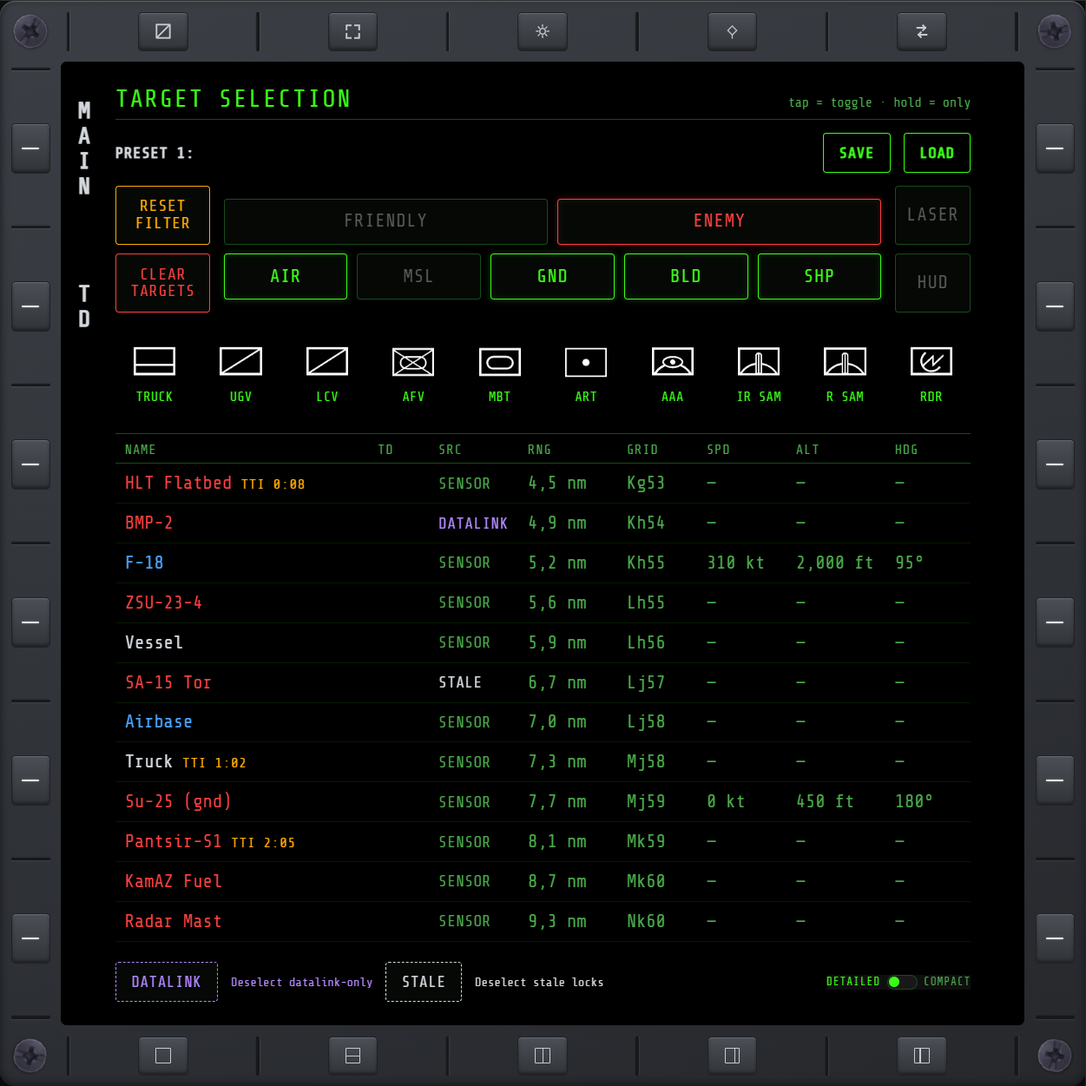
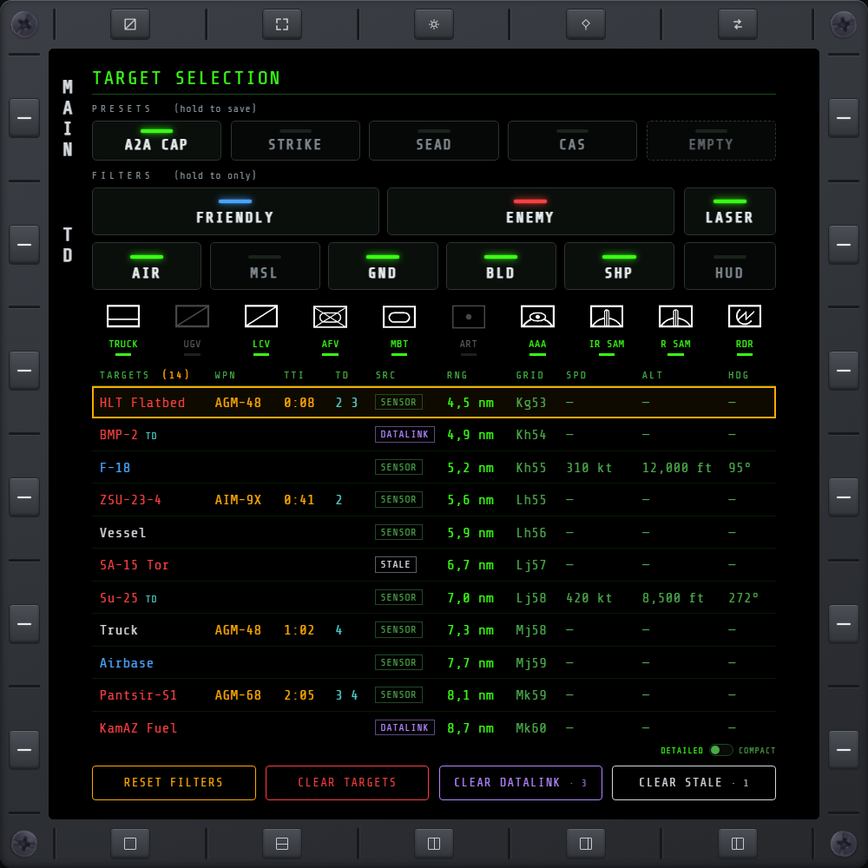
TGT rework: docs, manual and screenshots
Adds docs/tgt-rework.md (layout, decisions, verification, in-game checklist),
updates the TGT manual, tgt-presets, hud-tti-estimate and the datalink/stale
design docs for the renamed buttons, and replaces the TGT screenshots in
man/images with the new layout.

diff --git a/docs/tgt-presets.md b/docs/tgt-presets.md
@@ -16,14 +16,17 @@ name/data start empty and can be cleared back to empty.
 This is the same feature as [HUD presets](hud-presets.md), applied to TGT's filter set instead of
 HUD's — same slot model, same UI pattern, same wire shape, swapping HUD's filter fields for TGT's.
 
-- A bar on [TGT](../man/tgt.md#presets), between the header separator and the filter group (same
-  placement as HUD's own), reads **PRESET N: name** (whichever slot is current, in `--no-label`
-  white) plus solid `--no-green` **SAVE**/**LOAD** buttons — styled identically to HUD's own preset
-  bar (`hud.css`), not TGT's dashed DATALINK/STALE mod-only accent.
-- **SAVE** opens a name prompt; submitting captures the page's current live filters into the
-  current slot under that name.
-- **LOAD** opens a list of all 5; picking one applies it and makes it current, a pencil renames a
-  slot in place, and **×** clears one back to empty.
+- Five cards on [TGT](../man/tgt.md#presets), under a **PRESETS (hold to save)** heading between the
+  header separator and the filters — see [tgt-rework.md](tgt-rework.md). A card's position is its
+  slot; the lit one is current; an unsaved slot reads **EMPTY** with a dashed border.
+- **Tap** a card recalls it (`tgt-preset.load`) and makes it current.
+- **Hold** a card opens the SAVE PRESET dialog (keypad-style, see [tgt-rework.md](tgt-rework.md)) with
+  an amber name entry prefilled with the slot's name. **SAVE** captures the page's current live
+  filters into that slot under that name and makes it current (`tgt-preset.save {wname, index}`);
+  **CLEAR** empties the slot (`tgt-preset.delete {index}`); **CANCEL** closes. A completed hold
+  never also recalls.
+- TGT no longer opens a LOAD picker; a slot is renamed by holding its card and saving under a new
+  name, and emptied with CLEAR. `tgt-preset.rename` remains in the command set but has no TGT UI.
 - 5 new keybinds ([KEY](../man/keybinds.md#tgt-presets) page, **TGT PRESETS** section) recall a
   preset directly — real binds (both keyboard and joystick/HOTAS), same as HUD Presets.
 
@@ -46,9 +49,10 @@ scalar bools for laser/HUD mode.
 - **Server captures its own live state — no client-supplied blob.** Same as HUD presets:
   `tgt-preset.save` carries only a name; the server snapshots `TargetListSelector`'s live toggle
   state itself.
-- **SAVE always targets the current slot, never a client-picked index.** "Current" is plain
-  in-memory state (`TgtPresetStore`'s own `_current`, default 1) — a UI selection, not saved data,
-  so it isn't persisted and resets to 1 each session.
+- **`tgt-preset.save` takes an optional slot index; without one it targets the current slot.** A
+  card hold names its slot, and saving there also makes it current. "Current" is plain in-memory
+  state (`TgtPresetStore`'s own `_current`, default 1) — a UI selection, not saved data, so it isn't
+  persisted and resets to 1 each session.
 - **The raw filter state never leaves the server.** The `tgt` telemetry block's new `preset` field
   and the dedicated `/tgt-presets` endpoint both carry only `{index, name, hasData}` per slot.
 - **A distinct `tgt-preset.*` command namespace, not a reused `preset.*`.** `CommandDispatcher`
@@ -64,12 +68,11 @@ scalar bools for laser/HUD mode.
 - **Re-pressing an already-current, empty slot still "selects" it**, and **loading a preset skips
   a `.Set()` call when the toggle already matches** (mirrors `CommandDispatcher.TgtSet`'s own
   no-op guard) — both identical reasoning to `HudPresetStore`.
-- **Reused `LayoutModal`**, exactly as HUD presets did — `tgt.html` just also loads
-  `layout-modal.css`/`.js`.
-- **The SAVE/LOAD/`fetchPresetItems` wiring itself moved into a shared `preset-bar.js`**
-  (`src/web/shell/shared/`) rather than being copy-pasted into `tgt.js` a second time — `hud.js`'s
-  own inline version became the first user of the extraction, taking a `getPreset`/`setPreset` pair
-  so each page keeps owning its own state shape (`data.preset` vs `state.preset`).
+- **The save dialog is TGT's own**, in the keypad design of MAP's TGP slew keypad — not the shared
+  `LayoutModal` HUD presets use (see [tgt-rework.md](tgt-rework.md)).
+- **The SAVE/LOAD/`fetchPresetItems` wiring lives in a shared `preset-bar.js`**
+  (`src/web/shell/shared/`) for HUD's bar, taking a `getPreset`/`setPreset` pair so the page keeps
+  owning its own state shape. TGT's cards are `tgt.js`'s own, so `preset-bar.js` serves HUD alone.
 - **Fixed-slot/summary-JSON/persistence plumbing shared with `HudPresetStore` via a small
   `PresetSlots` helper** (`src/plugin/Stores/PresetSlots.cs`) — the two stores' game-specific
   capture/apply logic stayed separate; only the identical bookkeeping around it (empty-slot
@@ -100,14 +103,15 @@ scalar bools for laser/HUD mode.
 | [`src/plugin/Stores/PresetSlots.cs`](../src/plugin/Stores/PresetSlots.cs), [`tools/tests/PresetSlotsTests.cs`](../tools/tests/PresetSlotsTests.cs) | Shared BCL-only plumbing (slot creation, summary JSON, name validation, rename/delete, disk persistence) used by both `TgtPresetStore` and `HudPresetStore` — linked directly into `NOXMFD.Tests.csproj` via the same `LogWarning` seam `RouteStore.cs` uses. |
 | [`src/plugin/CommandDispatcher.cs`](../src/plugin/CommandDispatcher.cs) | `tgt-preset.save` / `.rename` / `.delete` / `.load` — `wname` for a name, `index` for a slot number 1-5. |
 | [`src/plugin/Telemetry/TelemetrySnapshot.cs`](../src/plugin/Telemetry/TelemetrySnapshot.cs), [`TelemetryReader.cs`](../src/plugin/Telemetry/TelemetryReader.cs), [`TelemetryJson.cs`](../src/plugin/Telemetry/TelemetryJson.cs) | `TgtPresetIndex`/`TgtPresetName` captured per frame; `TgtBlock` gained a `preset:{index,name}` field. |
-| [`src/plugin/Http/ConfigEndpoint.cs`](../src/plugin/Http/ConfigEndpoint.cs), [`TelemetryHttpRouter.cs`](../src/plugin/Http/TelemetryHttpRouter.cs) | `GET /tgt-presets` serves the full 5-slot summary for the LOAD picker. |
+| [`src/plugin/Http/ConfigEndpoint.cs`](../src/plugin/Http/ConfigEndpoint.cs), [`TelemetryHttpRouter.cs`](../src/plugin/Http/TelemetryHttpRouter.cs) | `GET /tgt-presets` serves the full 5-slot summary for HUD's LOAD picker and TGT's preset cards. |
 | [`src/plugin/Input/Keybinds.cs`](../src/plugin/Input/Keybinds.cs) | 5 `DefFree` binds (**TGT Preset 1**-**5**), section `TGT Preset Keybinds` → displayed as **TGT PRESETS**. |
 | [`src/plugin/Plugin.cs`](../src/plugin/Plugin.cs) | `TgtPresetStore.Load`/`.SelfCheck` wired into startup, next to `HudPresetStore`'s own. |
-| [`src/web/pages/tgt/tgt.html`](../src/web/pages/tgt/tgt.html), [`tgt.js`](../src/web/pages/tgt/tgt.js), [`tgt.css`](../src/web/pages/tgt/tgt.css) | The bar markup/styling and the page-specific glue (`getPreset`/`setPreset` reading/writing `state.preset`). PAD-cursor `CURSORABLE` extended to include the two new buttons. |
-| [`src/web/shell/shared/preset-bar.js`](../src/web/shell/shared/preset-bar.js) | The actual SAVE/LOAD/`LayoutModal`/`fetchPresetItems` wiring — shared with [HUD presets](hud-presets.md), extracted here since TGT presets made it a second identical copy rather than a one-off. |
+| [`src/web/pages/tgt/tgt-presets.js`](../src/web/pages/tgt/tgt-presets.js), [`tgt-presets.test.js`](../src/web/pages/tgt/tgt-presets.test.js) | The five preset cards, the SAVE PRESET dialog and the `GET /tgt-presets` mirror, with the DOM, `fetch` and `send` injected; the test drives recall, SAVE / CLEAR / CANCEL and the refetch rule. |
+| [`src/web/pages/tgt/tgt.html`](../src/web/pages/tgt/tgt.html), [`tgt.js`](../src/web/pages/tgt/tgt.js), [`tgt.css`](../src/web/pages/tgt/tgt.css) | The card and dialog markup/styling, and the tap/hold arbitration that routes to `tgt-presets.js`. The PAD cursor taps a card to recall and holds it to save. |
+| [`src/web/shell/shared/preset-bar.js`](../src/web/shell/shared/preset-bar.js) | The SAVE/LOAD/`LayoutModal`/`fetchPresetItems` wiring for [HUD presets](hud-presets.md). |
 | [`tools/serve_web.py`](../tools/serve_web.py) | Stateful mock (`TGT_PRESETS`/`TGT_PRESET_STATE`), same shape as `PRESETS`/`PRESET_STATE` — the name/list/rename/delete/current-slot machinery is fully exercised; the preset label itself stays static in the harness (see below). |
 | [`tools/preview-mock.js`](../tools/preview-mock.js) | Static `preset: {index:1, name:''}` added to the `tgt` mock block, for a sensible standalone render. |
-| [`man/tgt.md`](../man/tgt.md), [`man/keybinds.md`](../man/keybinds.md) | Document the preset bar and the new **TGT PRESETS** keybind section. |
+| [`man/tgt.md`](../man/tgt.md), [`man/keybinds.md`](../man/keybinds.md) | Document the preset cards and the new **TGT PRESETS** keybind section. |
 
 ## Verification performed
 

diff --git a/man/tgt.md b/man/tgt.md
@@ -7,26 +7,31 @@ targeted, and see what you currently have selected.
 
 ## Filters
 
-Rows of toggles for faction (friendly/enemy), category, and vehicle type, plus LASER and HUD mode
-buttons:
+Under a **FILTERS** heading, rows of toggles for faction (friendly/enemy), category, and vehicle
+type, plus LASER and HUD mode buttons. Each lights a small lamp above its label while it is on —
+green, or blue for FRIENDLY and red for ENEMY:
 
 - **Tap** a filter to turn it on or off.
 - **Hold** a filter to isolate it — turns everything else in its row off, leaving just that one on.
-- **RESET FILTER** turns every filter back on.
+- **RESET FILTERS** (bottom row) turns every filter back on.
 
 Units the filters leave out are drawn dimmed on the [MAP](map.md), same as on the in-game map.
 
 ## Target list
 
-The **NAME** column header reads **TARGETS (N)** — the running total in amber — handy for matching
+The first column header reads **TARGETS (N)** — the running total in amber — handy for matching
 ordnance count to target count without leaving the map to check the cockpit MFD.
 
 Every target you currently have selected, one row per target:
 
-- **NAME** — the unit's name, with a **TTI** (time-to-impact) reading beside it whenever one of
-  your own missiles or guided bombs is currently in flight and tracking that lock — the same
-  reading the in-game HUD's own [time-to-impact readout](rdr.md#in-game-hud-cue) shows for whichever
-  target is focused, just available here for every locked target at once, not only the focused one.
+- **TARGETS** — the unit's name.
+- **WPN** — the weapon of yours that is currently in flight and tracking that lock. Blank when
+  nothing is.
+- **TTI** — that weapon's time to impact as `m:ss`, the same reading the in-game HUD's own
+  [time-to-impact readout](rdr.md#in-game-hud-cue) shows for whichever target is focused, just
+  available here for every locked target at once, not only the focused one. Blank when nothing is
+  tracking the lock. With several weapons on one target, WPN and TTI both describe the one closest
+  to impact.
 - **TD** — while you're leading a [squad](sqd.md), which member number(s) you've designated this
   target to on the [Target Designator page](td.md) (blank if none). Only you see this column — it's
   your own in-progress/sent designation work, not visible to anyone else, and it doesn't appear at
@@ -51,12 +56,12 @@ still read it out), but Select now acts on whatever the cursor is pointing at in
 
 ### Sorting
 
-**Tap the NAME, SRC or RNG column header** to sort the list by that column; tap it again to
+**Tap the TARGETS, SRC or RNG column header** to sort the list by that column; tap it again to
 reverse the order. A green **▲** / **▼** beside the header shows which column is sorting and in
 which direction. **Long-press** any of the three to go back to the default order — the order the
-game itself holds your locks in. GRID and the TD/flight-data columns don't sort.
+game itself holds your locks in. WPN, TTI, GRID and the TD/flight-data columns don't sort.
 
-- NAME sorts alphabetically, SRC in the order DATALINK, SENSOR, STALE.
+- TARGETS sorts alphabetically, SRC in the order DATALINK, SENSOR, STALE.
 - RNG re-sorts live as ranges change, with any target whose range isn't known always last.
 - Targets that tie keep their default order.
 
@@ -66,7 +71,7 @@ top to bottom.
 
 ## Flight data columns
 
-A DETAILED/COMPACT toggle, bottom right of the target list footer, appends three more columns
+A DETAILED/COMPACT toggle, bottom right under the target list, appends three more columns
 after GRID:
 
 - **SPD** — the target's current speed.
@@ -75,7 +80,7 @@ after GRID:
 
 Same data the [MAP](map.md) page's own hover tooltip already shows for a unit. A target shows
 **—** in all three when that data isn't available — a stale lock, or a target that isn't an
-aircraft or missile. COMPACT (the NAME/TD/SRC/RNG/GRID columns only) is the default; the
+aircraft or missile. COMPACT (the TARGETS/WPN/TTI/TD/SRC/RNG/GRID columns only) is the default; the
 setting isn't remembered across a reload.
 
 ![TGT page in DETAILED mode](images/TGT_DETAILED.png)
@@ -97,26 +102,35 @@ cockpit view:
   exactly this target, even with others also locked — instead of the stock Weapon Release trigger's
   own behavior of firing one round at *every* locked target in sequence.
 
-## Bulk-clearing by source
+## Action buttons
 
-Two buttons below the list clear targets by *why* they're selected, without touching the rest:
+Four buttons are docked in one row at the bottom of the page, outside the scrolling list, so they
+stay reachable however long the list is:
 
-- **DATALINK** — deselects every datalink-only lock.
-- **STALE** — deselects every stale lock.
+- **RESET FILTERS** (amber) — turns every filter back on.
+- **CLEAR TARGETS** (red) — deselects everything.
+- **CLEAR DATALINK** (purple) — deselects every datalink-only lock. Shows how many that is.
+- **CLEAR STALE** (white) — deselects every stale lock. Shows how many that is.
+
+The last two clear targets by *why* they're selected, without touching the rest.
 
 ## Presets
 
-Up to 5 named presets of your own filters, saved server-side so any connected browser can save or
-load one. A bar between the header and the filter group reads **PRESET N: name** — whichever of
-the 5 is current — followed by **SAVE** and **LOAD**.
+Five preset slots for your own filters, saved server-side so any connected browser can save or
+recall one. Under a **PRESETS (hold to save)** heading, five cards sit in a row, one per slot; a
+card's position is its slot. The lit card is the current preset; a slot nobody has saved into reads
+**EMPTY** with a dashed border.
 
-- **SAVE** — opens a name prompt; submitting it captures the page's current filters (faction,
-  category, vehicle type, plus LASER and HUD mode) into the current preset under that name.
-- **LOAD** — opens a list of all 5 presets. Clicking one applies its saved filters and makes it
-  the current preset; a pencil icon renames it in place, and a **×** clears it back to empty
-  (name and data both) — the slot itself stays, only its contents are gone.
-- The 5 numbered keybinds on [KEY](keybinds.md#tgt-presets) recall a preset directly without
-  opening LOAD, and also become the current preset.
+- **Tap** a card to recall it — it applies that preset's saved filters (faction, category, vehicle
+  type, plus LASER and HUD mode) and becomes the current preset. Tapping an empty slot just makes it
+  current.
+- **Hold** a card to open its **SAVE PRESET** dialog, styled like the MAP page's TGP slew keypad: an
+  amber name entry (prefilled with the slot's existing name) over three buttons. **CANCEL** (white)
+  closes it; **CLEAR** (red) empties the slot, name and filters both, and is greyed out on a slot
+  that is already empty; **SAVE** (green) saves your current filters into that slot under that name
+  and makes it current. Enter saves and Escape cancels. Holding never also recalls.
+- The 5 numbered keybinds on [KEY](keybinds.md#tgt-presets) recall a preset directly, and also
+  become the current preset.
 
 ## Keybinds and PAD cursor
 

diff --git a/docs/tgt-rework.md b/docs/tgt-rework.md
@@ -1,0 +1,94 @@
+# TGT rework — lit-panel layout, preset cards, WPN/TTI columns, action dock
+
+**Status:** built on `feature/tgt-rework`; verified in the `serve_web` harness, not yet in game.
+The layout follows the approved "TGT A · Lit Panel" design (the AVN page alternatives study).
+
+## Layout, top to bottom
+
+1. The existing TARGET SELECTION header and its tap/hold hint.
+2. **PRESETS (hold to save)** — five cards.
+3. **FILTERS** — faction beside LASER, categories beside HUD, vehicle types beneath.
+4. The scrolling target table.
+5. The DETAILED/COMPACT toggle, right-aligned under the table.
+6. The action dock: **RESET FILTERS**, **CLEAR TARGETS**, **CLEAR DATALINK**, **CLEAR STALE**.
+
+Shell and bezel styling stay with the shell; the page owns everything between the header and the
+dock. The dock and toggle sit outside the table's scroller, so they stay visible however long the
+list is. The separators above the table and above the dock are gone; row dividers stay.
+
+## Controls
+
+- **Lit-panel pushbuttons.** Preset cards, filter cells and LASER/HUD share one look: a small lamp
+  above the label, unlit when off, glowing (`0 0 8px` + `0 0 2px`) in the control's accent when on.
+  Green by default, blue for FRIENDLY, red for ENEMY. Vehicle types keep icon-over-label with the
+  lamp beneath. Colours reuse the shared `--no-*` tokens where they match; the few that don't
+  (`--tgt-off-fill`, `--tgt-lit-fill`, `--tgt-off-text`, `--tgt-off-lamp`, `--tgt-cell-border`)
+  live in `tgt.css`.
+- **Preset cards** — `tgt-presets.js` (unit-tested); see [tgt-presets.md](tgt-presets.md). Tap recalls; hold opens the SAVE PRESET
+  dialog for that slot: an amber name entry with CANCEL (white), CLEAR (red, empties the slot) and
+  SAVE (green). The dialog is the page's own, in the design of MAP's TGP slew keypad and
+  NOAutopilot's target keypad (scrim, bordered panel, `--no-amber` entry), not the shared
+  `LayoutModal` the layout and HUD-preset prompts still use. The five cards mirror
+  `GET /tgt-presets`; the current slot's index/name already rides the `tgt` telemetry block, and a
+  change to it triggers a refetch of the list. The PAD cursor taps and holds a card the same way.
+- **Action dock** — every button's `data-cmd` is its `tgt.*` command (`reset`, `clear`,
+  `clear-datalink`, `clear-stale`), so one click handler covers all four and the PAD cursor just
+  clicks the button. CLEAR DATALINK / CLEAR STALE show `· N` when N rows would be dropped, computed
+  from the list (STALE implies DATALINK, so the datalink count includes the stale rows, as the
+  plugin's bulk deselect does). No count is shown at zero, like `TARGETS (N)`.
+
+## Target table
+
+Columns: **TARGETS → WPN → TTI → [TD] → SRC → RNG → GRID → [SPD → ALT → HDG]**, all left-aligned.
+The header and every row share one `grid-template-columns` and one side inset, inside the same
+scroller, so they stay aligned with a scrollbar showing. The TD column (squad leader) fills an
+optional track through `--tl-td-col`, and `--tl-min` is the matching floor below which the table
+scrolls horizontally instead of compressing.
+
+DETAILED prioritises the name: with three more columns to fit, every side column is sized to its
+content in units of `--tl-fs` (the row font size, shared with the header so both grids resolve to
+the same tracks) and TARGETS takes all the width that frees up.
+
+- **WPN / TTI** are plain amber text; both are blank when nothing of the player's is tracking the
+  row. The boxed TTI badge on the name is gone.
+- **SRC** is a boxed badge: SENSOR green, DATALINK purple, STALE off-white.
+- The focused row keeps its amber outline with a `rgba(255,170,0,.06)` fill; the grey outline when
+  the PAD cursor owns Select is unchanged.
+
+## Backend changes
+
+- `lockedTargetWpn` — a `string[]` parallel to `lockedTargetIds` / `lockedTargetTti`: the
+  `definition.unitName` of the missile whose estimate is that lock's TTI, `""` when none.
+  `TargetTtiEstimator.ComputeAll` fills it in the same pass; see [hud-tti-estimate.md](hud-tti-estimate.md).
+- `tgt-preset.save` takes an optional `index` (1-5). Absent, it saves into the current slot as
+  before; present, it saves into that slot and makes it current.
+
+## Verification performed
+
+- `tools/ci-check.ps1`: release build, every `*.test.js` (including a WPN case in
+  `telemetry-source.test.js` and `tgt-presets.test.js` for the cards and dialog), `dotnet test`,
+  route smoke.
+- Harness (`tools/serve_web.py`): tap recalls (`tgt-preset.load {index}`), hold opens
+  "SAVE PRESET N" and the release sends nothing, SAVE submits `tgt-preset.save {wname, index}`
+  (an empty name is refused inline), CLEAR sends `tgt-preset.delete {index}` and is disabled on an
+  empty slot, CANCEL / Escape close, Enter in the entry saves; the four dock buttons send `tgt.reset` / `tgt.clear` / `tgt.clear-datalink` /
+  `tgt.clear-stale`; a filter tap sends `tgt.set` and a hold `tgt.only`; header/row column offsets
+  are identical with the scrollbar showing; the dock and toggle stay in view at 900×900, 500×640
+  and 500×330 (a half-width pane wraps the dock labels rather than clipping them).
+
+## Still needs an in-game check
+
+- **WPN name.** A live shot's `definition.unitName` reads sensibly in the column and matches the
+  weapon fired; with two weapons on one target, WPN follows the smaller TTI.
+- **Save into a non-current slot.** Hold a card that isn't lit, save, and confirm the game applies
+  the save to that slot (the preset file under `BepInEx/config/` gains it) and the card lights.
+- **Recall after a save from another browser or a KEY-page bind** moves the lit card within about a
+  second (the telemetry `preset` change → refetch path).
+- **CLEAR DATALINK / CLEAR STALE counts** match what each button actually drops.
+- The PAD cursor taps and holds a preset card, and the designation dock still answers ADD /
+  REPLACE / DISMISS.
+
+## Not covered
+
+- `man/images/TGT.png`, `TGT_DETAILED.png` and the two `TGT_TD_DOCK*.png` show the previous layout.
+- The PAD cursor can press the dialog's three buttons, but typing a name still needs a keyboard.

diff --git a/docs/hud-tti-estimate.md b/docs/hud-tti-estimate.md
@@ -169,10 +169,15 @@ matches cycle order"). `telemetry-source.js` zips the two arrays into a `Map` an
 each row that has a non-negative entry — rows with nothing tracking them get no `tti` field at all,
 rather than a `-1` a page would have to remember to special-case.
 
-`tgt.js` renders it as `"TTI " + fmtTti(t.tti)` (a small JS mirror of `HudTtiMath.FormatTti`) inside
-the NAME cell, at its right edge — the cell became a flex row (`.tl-name-text` + `.tl-tti`, `tgt.css`)
-so a long name still ellipsizes correctly instead of the two fighting over the same nowrap span. Same
-amber as the HUD cue, kept independent of the row's own faction tint.
+`ComputeAll` also reports which weapon produced each lock's minimum: a parallel `string[]` of the
+missile's `definition.unitName` (`""` when nothing is tracking), serialized as `lockedTargetWpn`
+beside `lockedTargetTti`. `telemetry-source.js` sets `t.wpn` on exactly the rows that get a `t.tti`,
+so a row's weapon and time always describe the same missile.
+
+`tgt.js` renders them as two columns after the target name, **WPN** (`t.wpn`) and **TTI**
+(`fmtTti(t.tti)`, a small JS mirror of `HudTtiMath.FormatTti`, `m:ss` without a `TTI` prefix), both
+blank when a row carries neither. Plain amber text, the same amber as the HUD cue, kept independent
+of the row's own faction tint.
 
 ## Batch scan (review follow-up)
 
@@ -240,7 +245,10 @@ with a non-negative `lockedTargetTti` entry. Full `tools/ci-check.ps1` green.
 live (see "Status" above); TTI counted down correctly against a real shot. Not yet tested: multiple
 simultaneous tracking weapons against the same focused target (the "smallest TTI wins" branch in
 `TargetTtiEstimator.ComputeTti` has no live confirmation yet, only the single-weapon path); TGT's own
-per-row TTI ("TGT: a TTI per row" above) has not been tested in-game at all yet.
+per-row TTI ("TGT: a TTI per row" above) has not been tested in-game at all yet, and neither has
+the WPN column: check that the name a live shot reports (`definition.unitName`, e.g. `AGM-48`)
+reads sensibly and matches the weapon that was fired, and that with two weapons on one target WPN
+follows whichever has the smaller TTI.
 
 **Status item 3's widened match (`MissileSeekerAccess`) is confirmed working in-game** (2026-09-05):
 a diagnostic log against a real bomb-drop session showed `Missile.targetID` and the reflected

diff --git a/docs/tgt-datalink-cancel.md b/docs/tgt-datalink-cancel.md
@@ -63,7 +63,9 @@ always comes from `NetworkHQ == this`, not the tracking database.)
 4. **TGT page rendering** ([tgt.js](../src/web/pages/tgt/tgt.js), [tgt.css](../src/web/pages/tgt/tgt.css)) —
    the target list gained a fifth column, SRC (`SENSOR` / `DATALINK`, purple-tinted when datalink),
    toggled in the existing per-row refresh loop.
-5. **DATALINK button** ([tgt.html](../src/web/pages/tgt/tgt.html)) — sits below the target list,
+5. **DATALINK button** ([tgt.html](../src/web/pages/tgt/tgt.html)) — now **CLEAR DATALINK**, the third
+   button of the docked action row (see [tgt-rework.md](tgt-rework.md)). As first built it sat below the
+   target list,
    dashed purple border (distinct from the real `TargetListSelector` filter buttons above it, which
    also gate future selection — this one doesn't): **tap** deselects just the datalink-only targets.
    A new bulk server-side command:

diff --git a/docs/tgt-stale-lock.md b/docs/tgt-stale-lock.md
@@ -37,7 +37,8 @@ just the stale locks.
 4. **TGT page rendering** ([tgt.js](../src/web/pages/tgt/tgt.js), [tgt.css](../src/web/pages/tgt/tgt.css)) —
    SRC reads `STALE` (off-white, `--no-label`) when `st`, else `DATALINK` (purple) when `dl`, else
    `SENSOR`.
-5. **STALE button** ([tgt.html](../src/web/pages/tgt/tgt.html)) — sits beside DATALINK in the footer,
+5. **STALE button** ([tgt.html](../src/web/pages/tgt/tgt.html)) — now **CLEAR STALE**, the fourth button
+   of the docked action row (see [tgt-rework.md](tgt-rework.md)). As first built it sat beside DATALINK in the footer,
    same dashed-border mod-only treatment, in `--no-label` instead of purple. **Tap** deselects just
    the stale-locked targets: **`tgt.clear-stale`** ([CommandDispatcher.cs](../src/plugin/CommandDispatcher.cs)),
    sharing `TgtClearBy(op, predicate)` with `tgt.clear-datalink` — both are now real, reachable

diff --git a/docs/tgt-page.md b/docs/tgt-page.md
@@ -24,7 +24,7 @@ Controls (from `TargetListSelector.cs` + `TargetListSelector_ToggleButton.cs`):
 
 | Control | Game call | Effect |
 |---|---|---|
-| **RESET FILTER** | `ResetFilters()` | Turn every toggle back on (all pass). Does **not** re-select cleared targets. |
+| **RESET FILTERS** | `ResetFilters()` | Turn every toggle back on (all pass). Does **not** re-select cleared targets. |
 | **CLEAR TARGETS** | `DeselectAll()` | Deselect every current target. |
 | **FRIENDLY / ENEMY** | `toggleFactionItems[]` | Faction filter. |
 | **AIR / MSL / GND / BLD / SHP** | `toggleUnitTypesItems[]` | Unit-category filter (by `UnitDefinition` subtype). |

diff --git a/man/keybinds.md b/man/keybinds.md
@@ -64,7 +64,7 @@ below, which also drives [manual TGP camera](tgp.md#manual-camera-control) zoom.
   crosshair and makes **Cursor Select** deselect the focused row directly; moving the crosshair hands
   Select back to the cursor.
 - **Clear Datalink / Clear Stale** — the keybind equivalents of tapping [TGT](tgt.md)'s own
-  DATALINK/STALE buttons.
+  CLEAR DATALINK / CLEAR STALE buttons.
 
 ## Cursor
 
